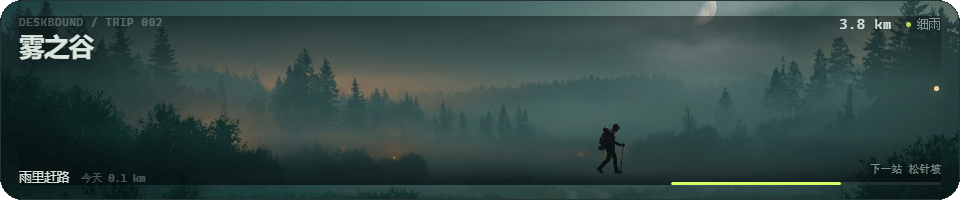
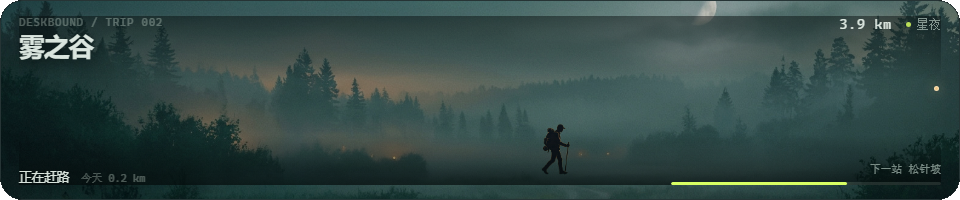
Move Mode B traveler with route progress; add character state prompts

diff --git a/src/renderer/journey/journey-canvas.js b/src/renderer/journey/journey-canvas.js
@@ -245,14 +245,18 @@
 
   function drawTraveler(ctx, state, time, assets) {
     const camped = Boolean(state.camped) || Boolean(state.runtime?.autoPaused) || Boolean(state.runtime?.paused);
+    const progress = clamp(state.leg?.progress || 0, 0, 1);
+    // Walk the character across the strip as the leg advances, instead of
+    // pinning them to one spot for the whole journey.
+    const travelX = 236 + progress * 488;
     if (camped && assets?.camp) {
       const image = assets.camp;
       const height = 58;
       const width = image.width / image.height * height;
-      const x = 672 - width / 2;
+      const x = travelX - width / 2;
       const y = 176 - height;
       ctx.save();
-      ctx.translate(672, 175);
+      ctx.translate(travelX, 175);
       ctx.scale(1, 0.12);
       const shadow = ctx.createRadialGradient(0, 0, 6, 0, 0, 92);
       shadow.addColorStop(0, "rgba(2, 7, 8, 0.55)");
@@ -273,13 +277,17 @@
       const image = assets.traveler;
       const height = 54;
       const width = image.width / image.height * height;
-      const bob = Math.sin(time * 4.2) * 1.2;
-      const x = 610 - width / 2;
-      const y = 176 - height + bob;
-      ctx.drawImage(image, x, y, width, height);
+      const stride = Math.sin(time * 4.2);
+      const bob = stride * 1.2;
+      const lean = stride * 0.012;
+      ctx.save();
+      ctx.translate(travelX, 176 + bob);
+      ctx.rotate(lean);
+      ctx.drawImage(image, -width / 2, -height, width, height);
+      ctx.restore();
       return;
     }
-    const x = 610;
+    const x = travelX;
     const y = 176;
     if (camped) {
       // Tent

diff --git a/docs/journey-character-prompts.md b/docs/journey-character-prompts.md
@@ -1,0 +1,143 @@
+# 桌边远行 · 旅人状态与提示词
+
+这份文档只解决一件事：**同一个旅人，在旅程里多几个可信的状态**，而不是每张图都重新设计一个角色。
+
+现有的 `walk.png` 是基准：黑色剪影、暖琥珀色轮廓光、侧视、向右行走、背包 + 鸭舌帽 + 登山杖、没有五官和内部细节。下面的提示词全部以它为参考。
+
+---
+
+## 需要哪些状态
+
+按优先级：
+
+| 优先级 | 状态 | 文件名 | 触发时机 | 是否必须 |
+|---|---|---|---|---|
+| P0 | 行走第二帧 | `traveler/walk-b.png` | 行走时与 `walk.png` 交替，形成步态 | 推荐 |
+| P0 | 营地坐姿 | `traveler/camp-sit.png` | 扎营后坐在火边，营地不再空 | 推荐 |
+| P1 | 短休息 | `traveler/rest.png` | 停止输入 20 秒～5 分钟，尚未扎营 | 推荐 |
+| P2 | 到达地标 | `traveler/arrive.png` | 路段进度 90%～100%，到达下一站 | 可选 |
+| P2 | 雨天行走 | `traveler/rain.png` | 雨天，略微缩肩、压低重心 | 可选 |
+
+**结论：** 当前主循环最低只需要 `walk` + 营地；但要让“他在赶路”这件事成立，最值得补的是 **walk-b（步态）** 和 **camp-sit（营地有人）**。`rest` 次之，`arrive` / `rain` 属于锦上添花。
+
+> 现在代码只加载 `walk.png` 和 `camp.png`。上面的新状态图产好后，我再把画布状态机接上：行走交替、停留/扎营切换、到站停顿。
+
+---
+
+## 共同约束：风格连贯性
+
+每张图都必须满足：
+
+- **同一个角色**：侧视、面向右、全身；鸭舌帽、双肩包、背包侧袋、登山杖、短靴
+- **同样的剪影**：纯黑填充（约 `#0A0B0C`），不画衣服纹理、不画脸、不画五官
+- **同样的轮廓光**：只在头顶、帽檐、背包上缘、肩、手臂外侧、腿后缘有一圈暖琥珀色（约 `#D9A05B`），宽 1～2px；左侧不要描边
+- **同样的比例**：约 6.5 头身；背包宽度约为躯干宽的 1.6 倍；登山杖长度约等于身高
+- **同样的机位**：平视、正侧视、没有透视缩短
+- **同样的输出**：1024×1024，角色占画面高度约 75～80%，脚底在画面底部约 88% 处，居中
+- **透明背景**；如果模型不支持透明，用纯绿幕 `#00FF00` 生成，再抠图
+- **不要投影、地面、文字、边框、场景**；人物单独一张，背景由 B 模式提供
+
+### 通用负面提示词
+
+```text
+photorealistic, 3D render, colored clothing, visible face, facial features, skin, hair, extra limbs, extra fingers, different backpack, different hat, hood, umbrella, shadow, ground, floor, scenery, background gradient, text, watermark, frame, multiple characters, front view, three-quarter view, perspective, motion blur, soft blurry edges, white outline, gray fill, interior highlights, logo
+```
+
+---
+
+## P0 · 行走第二帧 `walk-b.png`
+
+用途：和 `walk.png` 每 0.28～0.35 秒交替一次。两张图的**脚底位置、角色高度、背包和帽子**必须完全一致，只换腿和手臂。
+
+```text
+A single full-body side-view silhouette of the same traveler as the reference image: a slim hiker facing right, black matte silhouette (#0A0B0C), thin warm amber rim light (#D9A05B) only along the top and back edges of the cap, backpack, shoulders, arms, legs and trekking pole, no facial features, no interior detail, no texture, no cast shadow, no ground, clean vector-like edges, transparent background, 1024x1024, character occupies about 78% of the frame height, feet near the bottom margin, centered.
+
+Pose: the opposite walking stride to the reference — left leg forward and planted, right leg trailing behind, right arm forward gripping the trekking pole, left arm relaxed at the side, torso upright with a slight forward lean. Same cap, same backpack with side pocket and rolled mat, same pole length, same boot shape, same body proportions. The character must read as the same person as the reference, only the gait phase changes.
+```
+
+**检查点：** 与 `walk.png` 叠在一起时，帽顶、背包最高点、脚底高度误差不超过 2%；不能出现“另一个人”。
+
+---
+
+## P0 · 营地坐姿 `camp-sit.png`
+
+用途：扎营后把人物放在帐篷和火堆旁。**不要画帐篷、火、地面**，这些已经在 `camp.png` 里。
+
+```text
+A single full-body side-view silhouette of the same traveler as the reference image: a slim hiker facing right, black matte silhouette (#0A0B0C), thin warm amber rim light (#D9A05B) along the top and back edges of the cap, backpack, shoulders, arms, legs and trekking pole, no facial features, no interior detail, no texture, no cast shadow, no ground, clean vector-like edges, transparent background, 1024x1024, character occupies about 62% of the frame height, centered.
+
+Pose: seated on an unseen low log, side view facing right, knees bent and feet planted, forearms resting on the knees, leaning slightly forward toward a campfire off-frame at the right, trekking pole laid across the lap, backpack removed and leaning against the log behind the character. Same cap, same backpack shape, same boot shape, same body proportions. Relaxed, quiet, end-of-day posture; no standing, no walking.
+```
+
+**合成建议：** 把人物底边对齐到营地火堆左侧，人物高度约为帐篷高度的 55～65%；不要让人物挡住火光。
+
+---
+
+## P1 · 短休息 `rest.png`
+
+用途：停止输入 20 秒到 5 分钟之间，人物站住，但仍“在路上”；超过 5 分钟才切营地。
+
+```text
+A single full-body side-view silhouette of the same traveler as the reference image: a slim hiker facing right, black matte silhouette (#0A0B0C), thin warm amber rim light (#D9A05B) along the top and back edges of the cap, backpack, shoulders, arms, legs and trekking pole, no facial features, no interior detail, no texture, no cast shadow, no ground, clean vector-like edges, transparent background, 1024x1024, character occupies about 78% of the frame height, feet near the bottom margin, centered.
+
+Pose: standing still in side view facing right, weight on the back leg, front foot slightly forward and relaxed, trekking pole planted vertically in front, both hands resting on the pole grip, head lifted slightly as if looking at the horizon, shoulders dropped, backpack still on. Same cap, same backpack with side pocket and rolled mat, same pole length, same boot shape, same body proportions. A quiet breathing pause, not a walking pose, not sitting.
+```
+
+---
+
+## P2 · 到达地标 `arrive.png`（可选）
+
+用途：路段进度 90%～100%，人物在下一站前停一下，再切场景。没有这个状态也能用 `rest` 替代。
+
+```text
+A single full-body side-view silhouette of the same traveler as the reference image: a slim hiker facing right, black matte silhouette (#0A0B0C), thin warm amber rim light (#D9A05B) along the top and back edges of the cap, backpack, shoulders, arms, legs and trekking pole, no facial features, no interior detail, no texture, no cast shadow, no ground, clean vector-like edges, transparent background, 1024x1024, character occupies about 78% of the frame height, feet near the bottom margin, centered.
+
+Pose: standing at the crest of a small rise, side view facing right, chest open, one hand on the hip, the other hand holding the trekking pole planted in front, head up looking into the distance, backpack on. Same cap, same backpack with side pocket and rolled mat, same pole length, same boot shape, same body proportions. A calm arrival pose, not walking, not sitting.
+```
+
+---
+
+## P2 · 雨天行走 `rain.png`（可选）
+
+用途：雨天。若不想增加一张图，也可以用现有 `walk.png` + 画布雨丝/压暗层，不一定要新图。
+
+```text
+A single full-body side-view silhouette of the same traveler as the reference image: a slim hiker facing right, black matte silhouette (#0A0B0C), thin warm amber rim light (#D9A05B) along the top and back edges of the cap, backpack, shoulders, arms, legs and trekking pole, no facial features, no interior detail, no texture, no cast shadow, no ground, clean vector-like edges, transparent background, 1024x1024, character occupies about 78% of the frame height, feet near the bottom margin, centered.
+
+Pose: walking to the right through rain, shoulders slightly hunched, head lowered a little under the cap, leading with the trekking pole, backpack pulled close, coat hem slightly lifted by the wind. Same cap, same backpack with side pocket and rolled mat, same pole length, same boot shape, same body proportions. No umbrella, no hood, no visible rain, no puddles — the weather is added by the canvas.
+```
+
+---
+
+## 生成顺序
+
+1. 先用 `walk.png` 做 **image-to-image / character reference**，强度 0.35～0.5，保持剪影、背包、帽子、杖长不变
+2. 先出 `walk-b`，确认与 `walk` 的脚底、头高、背包轮廓对齐
+3. 再出 `camp-sit`（姿态变化最大，但身份特征要保留）
+4. 最后出 `rest`；`arrive` / `rain` 有余力再做
+5. 每张都输出绿幕版；抠图后检查边缘有没有绿边/白边
+6. 所有图统一裁到角色外接框 + 8% 留白，保持脚底对齐
+
+## 放图位置
+
+```text
+src/renderer/journey/assets/traveler/
+  walk.png        # 已有
+  walk-b.png      # 新
+  rest.png        # 新
+  camp-sit.png    # 新
+  arrive.png      # 可选
+  rain.png        # 可选
+```
+
+## 代码接入
+
+接入时只改 `src/renderer/journey/journey-canvas.js` 的 `drawTraveler()`：
+
+- 行走：`walk` / `walk-b` 按时间交替
+- 短休息：`rest`
+- 扎营：`camp` + `camp-sit`
+- 到站：`arrive`
+- 天气：`rain`，没有则继续用 `walk`
+
+所有状态图都是可选的；文件缺失时继续用 `walk.png` 或代码剪影回退。位置仍由路段进度控制，不会因为换状态而回到固定点。

diff --git a/docs/journey-image-prompts.md b/docs/journey-image-prompts.md
@@ -188,6 +188,14 @@ background, landscape, ground, shadow, text, letters, logo, watermark, UI, borde
 
 > 单图文件：[journey-prompts/08-camp.md](journey-prompts/08-camp.md)
 
+## 人物状态扩展
+
+现有 `walk.png` 之外，推荐补 **walk-b（步态第二帧）**、**camp-sit（营地坐姿）** 和 **rest（短休息）**；`arrive` / `rain` 可选。完整提示词、风格连贯约束和放图路径见：
+
+- [journey-character-prompts.md](journey-character-prompts.md)
+
+这些状态图都沿用同一套黑色剪影 + 暖琥珀轮廓光，不要重新设计角色。
+
 
 ## 负面提示词说明
 

diff --git a/src/renderer/journey/assets/README.md b/src/renderer/journey/assets/README.md
@@ -43,3 +43,4 @@ the original silhouette traveler / code-drawn tent is used.
 
 - Index: [`docs/journey-image-prompts.md`](../../../../docs/journey-image-prompts.md)
 - Per-image: [`docs/journey-prompts/`](../../../../docs/journey-prompts/)
+- Traveler states (walk-b / camp-sit / rest / arrive / rain): [`docs/journey-character-prompts.md`](../../../../docs/journey-character-prompts.md)
